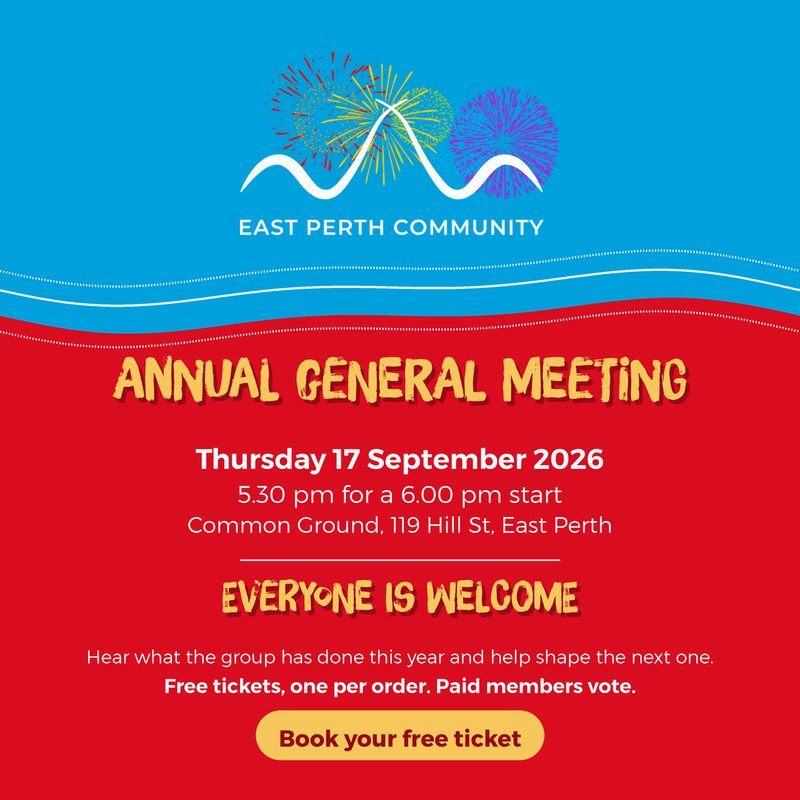
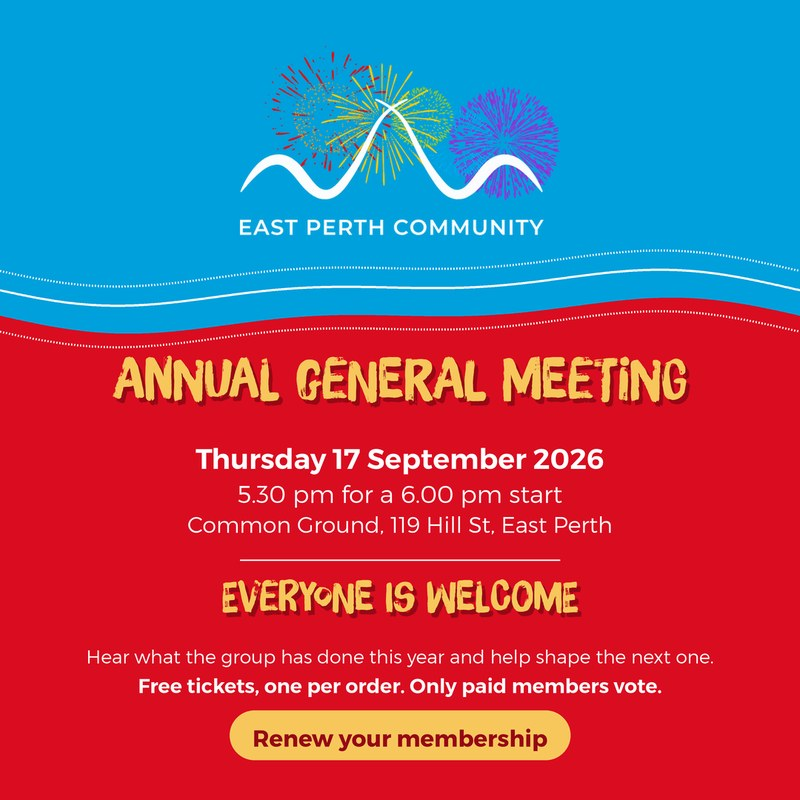
Hub: AGM spotlight CTA leads with membership renewal (Treasurer request)

Changed region(s): [[0.1562, 0.8438, 0.8438, 0.9688]]

diff --git a/spotlight.js b/spotlight.js
@@ -116,11 +116,16 @@
     alt:   "EPCG Annual General Meeting, Thursday 17 September 2026, Common Ground East Perth",
     name:  "EPCG Annual General Meeting",
     blurb: "The group's AGM is on <b>Thursday 17 September</b> at Common Ground, 119 Hill St, from 5.30 pm for a 6 pm start. Hear what has been achieved this year, meet the incoming committee and help shape what the group works on next. Hosted with the support of Mission Australia and Common Ground.",
-    highlight: "\ud83d\uddf3\ufe0f Nominations have closed, with valid nominations received for <b>all four office bearer positions and five ordinary committee positions</b>. The incoming committee takes office at the meeting.",
+    highlight: "\ud83d\uddf3\ufe0f <b>Only paid-up Ordinary Members can vote.</b> If your membership is due, renew before the meeting. Nominations have closed, with valid nominations received for all four office bearer positions and five ordinary committee positions.",
     meta:  "\ud83d\udcc5 Thursday 17 September, 5.30 pm for a 6 pm start &nbsp;&middot;&nbsp; \ud83d\udccd Common Ground, 119 Hill St, East Perth",
     ribbon:"\ud83c\udf9f\ufe0f EPCG Event",
-    ctas:  [{label:"Get your free ticket", href:"https://events.humanitix.com/east-perth-community-group-2026-agm", style:"b1"},
-            {label:"Read the August newsletter", href:"https://mailchi.mp/f7ecf37cae05/epcg-august-2026-newsletter", style:"b2"}]
+    /* CTA order set by the Treasurer, 30 Aug 2026: renewal leads, the ticket follows. Only paid-up
+       Ordinary Members can vote, so a renewal is the thing a reader most needs to act on before
+       17 Sep. The ticket link is kept as the second button rather than dropped - the AGM is
+       capacity managed and this card is the only booking route on the board. The newsletter CTA
+       came out to make room; it is already the feature card on newsletters.html. */
+    ctas:  [{label:"Renew your membership to vote", href:"https://www.eastperthcommunity.org.au/new-membership-form", style:"b1"},
+            {label:"Get your free ticket", href:"https://events.humanitix.com/east-perth-community-group-2026-agm", style:"b2"}]
   };
 
 
